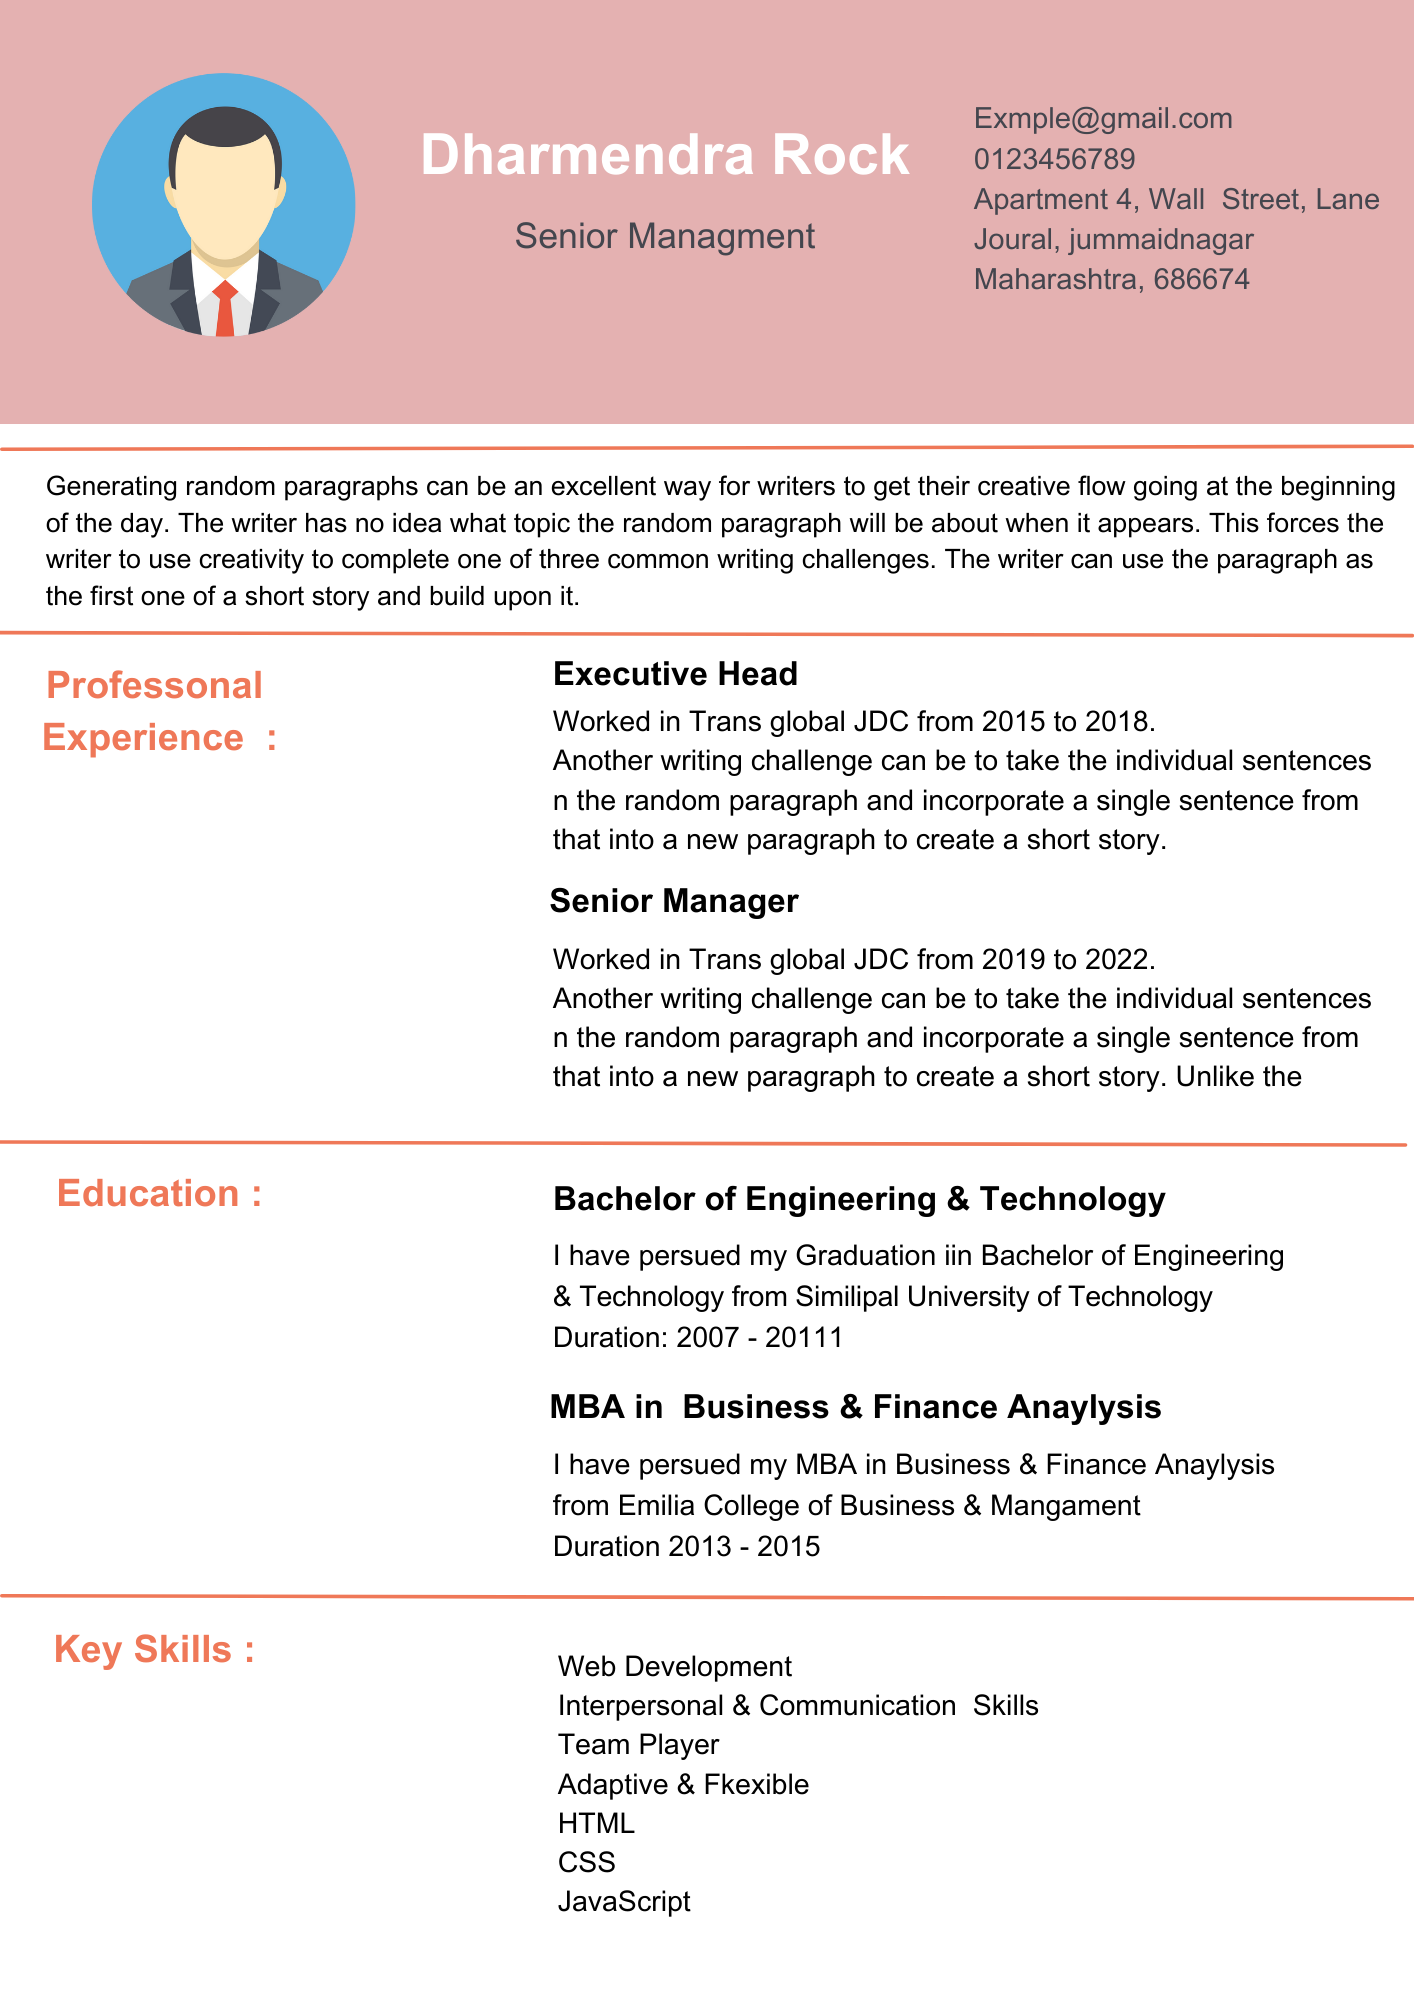
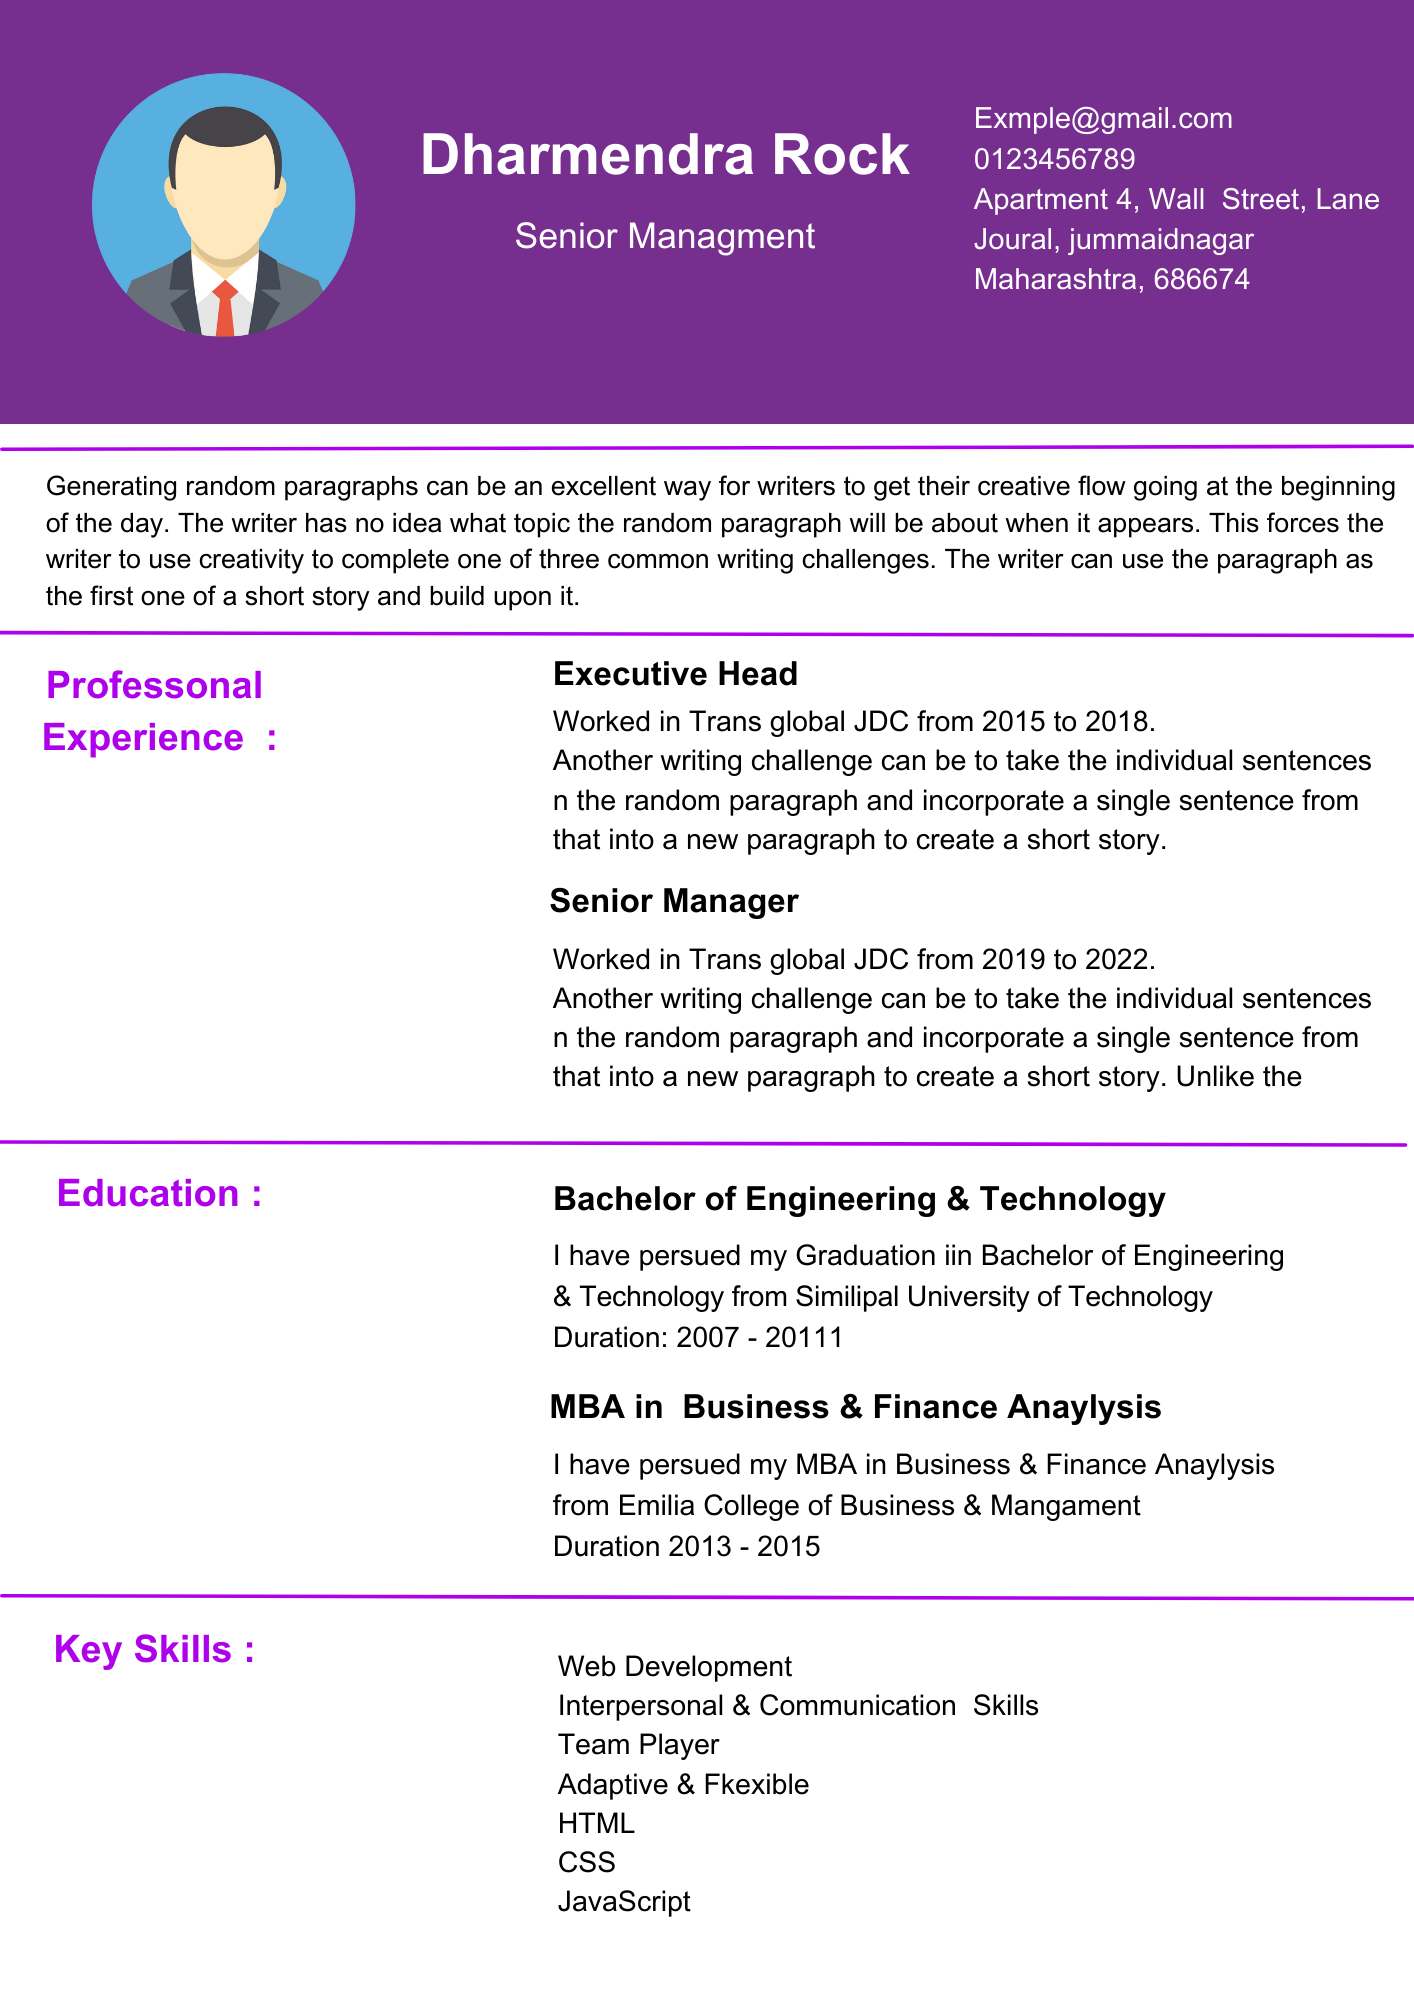
final

diff --git a/src/templates/Template_2.js b/src/templates/Template_2.js
@@ -3,6 +3,10 @@ import {Typography, Paper, Grid } from "@mui/material";
 import Stack from "@mui/system/Stack";
 import { useSelector } from "react-redux";
 import "../../src/App.css";
+
+
+//  In this Section We are Getting all data with the help  of useSelector which is stored in redux store like personalInfo Data , EducationData , WorkExperienceData and KeyskillData **************
+
 const Template_2 = () => {
   const PersonalInfoData = useSelector(
     (state) => state.personalInfo.personalInfoValues
@@ -30,7 +34,7 @@ const Template_2 = () => {
         <Grid container
           direction="row"
           justifyContent="space-around"
-          alignItems="center" sx={{ backgroundColor: "#B1BBE4" }}>
+          alignItems="center" sx={{ backgroundColor: "#1E801C" }}>
 
           <Grid
             sx={{
@@ -88,7 +92,7 @@ const Template_2 = () => {
               width: "100%",
               marginTop: "2rem",
               height: "5px",
-              background: "#5069C2",
+              background: "#1E801C",
             }}
           />
 
@@ -110,7 +114,7 @@ const Template_2 = () => {
             width: "100%",
             marginTop: "0rem",
             height: "5px",
-            background: "#5069C2",
+            background: "#1E801C",
           }}
         />
 
@@ -128,7 +132,7 @@ const Template_2 = () => {
                 padding: "1rem",
                 fontWeight: "bold",
                 fontSize: "1.5rem",
-                color: "#5069C2",
+                color: "#1E801C",
               }}>
               Professional <br /> Experience :
 
@@ -161,7 +165,7 @@ const Template_2 = () => {
             width: "100%",
             marginTop: "0rem",
             height: "5px",
-            background: "#5069C2",
+            background: "#1E801C",
           }}
         />
 
@@ -173,7 +177,7 @@ const Template_2 = () => {
               padding: "1rem",
               fontWeight: "bold",
               fontSize: "1.5rem",
-              color: "#5069C2",
+              color: "#1E801C",
             }}
           >
             Education :
@@ -205,7 +209,7 @@ const Template_2 = () => {
             width: "100%",
             marginTop: "0rem",
             height: "5px",
-            background: "#5069C2",
+            background: "#1E801C",
           }}
         />
 
@@ -218,7 +222,7 @@ const Template_2 = () => {
                 padding: "1rem",
                 fontWeight: "bold",
                 fontSize: "1.5rem",
-                color: "#5069C2",
+                color: "#1E801C",
               }}
             >
               Key Skills :

diff --git a/src/templates/Template_1.js b/src/templates/Template_1.js
@@ -4,6 +4,9 @@ import Stack from "@mui/system/Stack";
 import { useSelector } from "react-redux";
 import "../../src/App.css";
 
+
+//  In this Section We are Getting all data with the help  of useSelector which is stored in redux store like personalInfo Data , EducationData , WorkExperienceData and KeyskillData **************
+
 const Templates1 = () => {
   const PersonalInfoData = useSelector(
     (state) => state.personalInfo.personalInfoValues
@@ -31,7 +34,7 @@ const Templates1 = () => {
         <Grid container
           direction="row"
           justifyContent="space-around"
-          alignItems="center" sx={{ backgroundColor: " #fcc4bd", }}>
+          alignItems="center" sx={{ backgroundColor: "#762E8F"}}>
 
           <Grid
             sx={{
@@ -89,7 +92,7 @@ const Templates1 = () => {
               width: "100%",
               marginTop: "2rem",
               height: "5px",
-              background: "#F08460",
+              background: "#AE00EB",
             }}
           />
 
@@ -111,7 +114,7 @@ const Templates1 = () => {
             width: "100%",
             marginTop: "0rem",
             height: "5px",
-            background: "#F08460",
+            background: "#AE00EB",
           }}
         />
 
@@ -129,7 +132,7 @@ const Templates1 = () => {
                 padding: "1rem",
                 fontWeight: "bold",
                 fontSize: "1.5rem",
-                color: " #f87d6d",
+                color: "#AE00EB",
               }}>
               Professional <br /> Experience :
 
@@ -162,7 +165,7 @@ const Templates1 = () => {
             width: "100%",
             marginTop: "0rem",
             height: "5px",
-            background: "#F08460",
+            background: "#AE00EB",
           }}
         />
 
@@ -174,7 +177,7 @@ const Templates1 = () => {
               padding: "1rem",
               fontWeight: "bold",
               fontSize: "1.5rem",
-              color: " #f87d6d",
+              color: "#AE00EB",
             }}
           >
             Education :
@@ -206,7 +209,7 @@ const Templates1 = () => {
             width: "100%",
             marginTop: "0rem",
             height: "5px",
-            background: "#F08460",
+            background: "#AE00EB",
           }}
         />
 
@@ -219,7 +222,7 @@ const Templates1 = () => {
                 padding: "1rem",
                 fontWeight: "bold",
                 fontSize: "1.5rem",
-                color: " #f87d6d",
+                color: "#AE00EB",
               }}
             >
               Key Skills :

diff --git a/src/components/formsDetails/PersonalInfo.js b/src/components/formsDetails/PersonalInfo.js
@@ -18,14 +18,15 @@ import * as yup from "yup";
 import { yupResolver } from "@hookform/resolvers/yup";
 
 
+// We are using useform Hook from React, This useform Hook is used to manage all forms states like register ,handleSubmit etc.***********************
+
 const PersonalInfo = () => {
   const { personalField } = useMyContext();
   const Navigate = useNavigate();
 
   const dispatch = useDispatch();
 
-  // We are using useform Hook from React, This useform Hook is used to manage all forms states like register ,handleSubmit,error etc.***********************
-  // We are using yup and yupResolver for error etc.***********************
+  // We are using yup and yupResolver(Schema) for error validation etc.***********************
 
   console.log(personalField);
 
@@ -50,11 +51,6 @@ const PersonalInfo = () => {
       .required("This field is required"),
 
     MobileNo: yup
-      // .number("Enter a number")
-      // .typeError("This field is required")
-      // .positive("Mobile number can't start with 0 or - ")
-      // .integer("Mobile number can't include a decimal point"),
-
       .string()
       .required("This field is required")
       .matches(

diff --git a/src/components/Navbar.js b/src/components/Navbar.js
@@ -26,7 +26,7 @@ const NavBar = () => {
 			position="fixed"
 			sx={{ backgroundColor: "White" }}>
 
-			{/* Almabetter Logo for Desktop view And Responsive View **************************************/}
+{/* Almabetter Logo for Desktop view And Responsive View **************************************/}
 
 			<Toolbar>
 				{isMatch ? (
@@ -39,7 +39,7 @@ const NavBar = () => {
 							/>							
 						</Typography>
 
-						{/* Introducing DrawerComponent for Responsive View **********************************/}
+{/* Introducing DrawerComponent for Responsive View **********************************/}
 
 						<DrawerComp />
 					</>
@@ -53,7 +53,7 @@ const NavBar = () => {
 							/>							
 						</Typography>
 
-						{/* Navbar links for Different Pages *************************************************/}
+{/* Navbar links for Different Pages *************************************************/}
 
 						<Tabs sx={{ marginLeft: "auto" }}>
 							<Tab

diff --git a/src/templates/Template_4.js b/src/templates/Template_4.js
@@ -1,12 +1,13 @@
 import React from "react";
 import {Typography,Paper,Divider,List, Grid } from "@mui/material";
 import { useSelector } from "react-redux";
-// import { useMyContext } from "../context/Context";
 import "../../src/App.css";
-const Template_4 = () => {
-  //  In this Section We are Getting all data with the help  of useSelector which is stored in redux store like personalInfo Data , EducationData , WorkExperienceData and KeyskillData **************
 
-  // const { mode } = useMyContext();
+
+
+//  In this Section We are Getting all data with the help  of useSelector which is stored in redux store like personalInfo Data , EducationData , WorkExperienceData and KeyskillData **************
+
+const Template_4 = () => {
   const PersonalInfoData = useSelector(
     (state) => state.personalInfo.personalInfoValues
   );

diff --git a/src/templates/Template_3.js b/src/templates/Template_3.js
@@ -2,6 +2,11 @@ import React from "react";
 import { Typography, Paper, Divider, List, Grid } from "@mui/material";
 import { useSelector } from "react-redux";
 import "../../src/App.css";
+
+
+
+//  In this Section We are Getting all data with the help  of useSelector which is stored in redux store like personalInfo Data , EducationData , WorkExperienceData and KeyskillData **************
+
 const Template_3 = () => {
   const PersonalInfoData = useSelector(
     (state) => state.personalInfo.personalInfoValues

diff --git a/src/components/formsDetails/WorkExperience.js b/src/components/formsDetails/WorkExperience.js
@@ -10,6 +10,8 @@ import { useNavigate } from "react-router-dom";
 import { useMyContext } from "../../context/Context";
 import { OnKeyPress } from "../OnKeyPress";
 
+
+
 const WorkExperience = () => {
   const { workExpField } = useMyContext();
 
@@ -53,6 +55,8 @@ const WorkExperience = () => {
     name: "WorkExperience",
     control,
   });
+
+  
   OnKeyPress(append, "Enter");
   const dispatch = useDispatch();
 

diff --git a/src/components/formsDetails/KeySkills.js b/src/components/formsDetails/KeySkills.js
@@ -10,6 +10,10 @@ import { useMyContext } from "../../context/Context";
 import ClearIcon from "@mui/icons-material/Clear";
 import KeyboardDoubleArrowRightSharpIcon from "@mui/icons-material/KeyboardDoubleArrowRightSharp";
 import { OnKeyPress } from "../OnKeyPress";
+
+
+
+
 const KeySkills = () => {
   const { skillsField } = useMyContext();
   const Navigate = useNavigate();

diff --git a/src/components/Main.js b/src/components/Main.js
@@ -29,6 +29,7 @@ const Main = () => {
 					Select Template To Get Started
 				</Typography>
 			</Box>
+			
  {/* Passing all the tempalate images data to tempGrid Component as a Props ********************** */}
 
 			<Container

diff --git a/src/components/OnKeyPress.js b/src/components/OnKeyPress.js
@@ -1,5 +1,7 @@
 import { useEffect } from "react";
 
+// we are using windows property for key status access********
+
 
 export const  OnKeyPress= (callback, targetkey) => {
   useEffect (()=>{

diff --git a/README.md b/README.md
@@ -56,8 +56,8 @@ npm install
 ## Contributing
 
 - **Dharmendra ([GitHub Profile](https://github.com/idhamrendrarock))**
-- **Ashok ([GitHub Profile](https://github.com/ashok-890))**
-- **Prachi ([GitHub Profile](#))**
+- **Ashok ([GitHub Profile](https://github.com/ashok-SN))**
+- **Prachi ([GitHub Profile](https://github.com/prachirahud))**
 
 
 -**Thank you for choosing our Resume Builder Website.** 
